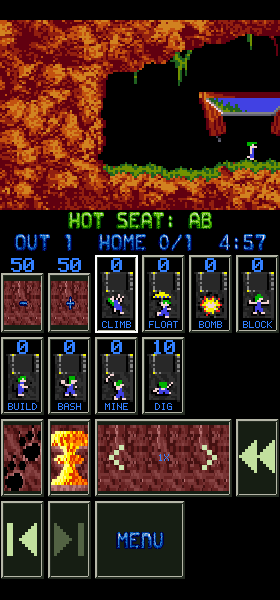
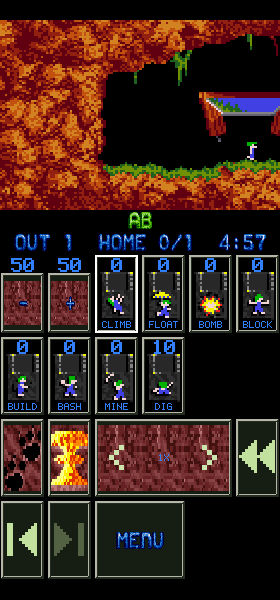
Keep the iOS Hot Seat player indicator minimal

Changed region(s): [[0.4, 0.33, 0.6286, 0.39], [0.2286, 0.33, 0.3714, 0.39], [0.6571, 0.33, 0.7714, 0.39]]

diff --git a/Sources/LemmingsGameArt/MobileHUDRenderer.swift b/Sources/LemmingsGameArt/MobileHUDRenderer.swift
@@ -151,7 +151,7 @@ public enum MobileHUDAction: Equatable, Sendable {
         }
         let frames = Self.statusFrames(layout: layout, hasPlayer: playerName != nil)
         if let playerName, let player = frames.player {
-            GamePixelTypography.draw("Hot Seat: " + playerName, in: player.insetBy(dx: 6, dy: 1), context: context,
+            GamePixelTypography.draw(playerName, in: player.insetBy(dx: 6, dy: 1), context: context,
                 typography: typography, palette: .green, maximumScale: 1)
         }
         drawStatus(in: frames.counters, panelMode: layout.panel != nil, context: context)

diff --git a/Documentation/IOSInterfaceParity.md b/Documentation/IOSInterfaceParity.md
@@ -474,7 +474,7 @@ remain deferred, so these checks do not establish playable sequel parity.
 
 ## 13 October in-play Hot Seat identity
 
-Hot Seat keeps `Hot Seat: <player>` in a dedicated green bitmap row above the
+Hot Seat keeps only the player’s name in a green bitmap row above the
 HUD counters. Identity stays clear of terrain, notices and input targets.
 It uses the attempt owner and has a full-name VoiceOver label. Solo play keeps
 its existing HUD. Compact layouts reserve a second status row during Hot Seat.

diff --git a/Documentation/ReleaseReadiness/2.0HotSeatHUD-2026-10-13/README.md b/Documentation/ReleaseReadiness/2.0HotSeatHUD-2026-10-13/README.md
@@ -1,6 +1,6 @@
 # iOS Hot Seat player identity — 13 October 2026
 
-Hot Seat now shows `Hot Seat: <player>` in green bitmap lettering above the
+Hot Seat shows only the player’s name in green bitmap lettering above the
 HUD counters. The opaque strip keeps identity clear of terrain, music notices,
 touch targeting and controls. The name comes from the attempt owner, including
 restored runs. Solo play has no identity row. VoiceOver gets `Current player:
